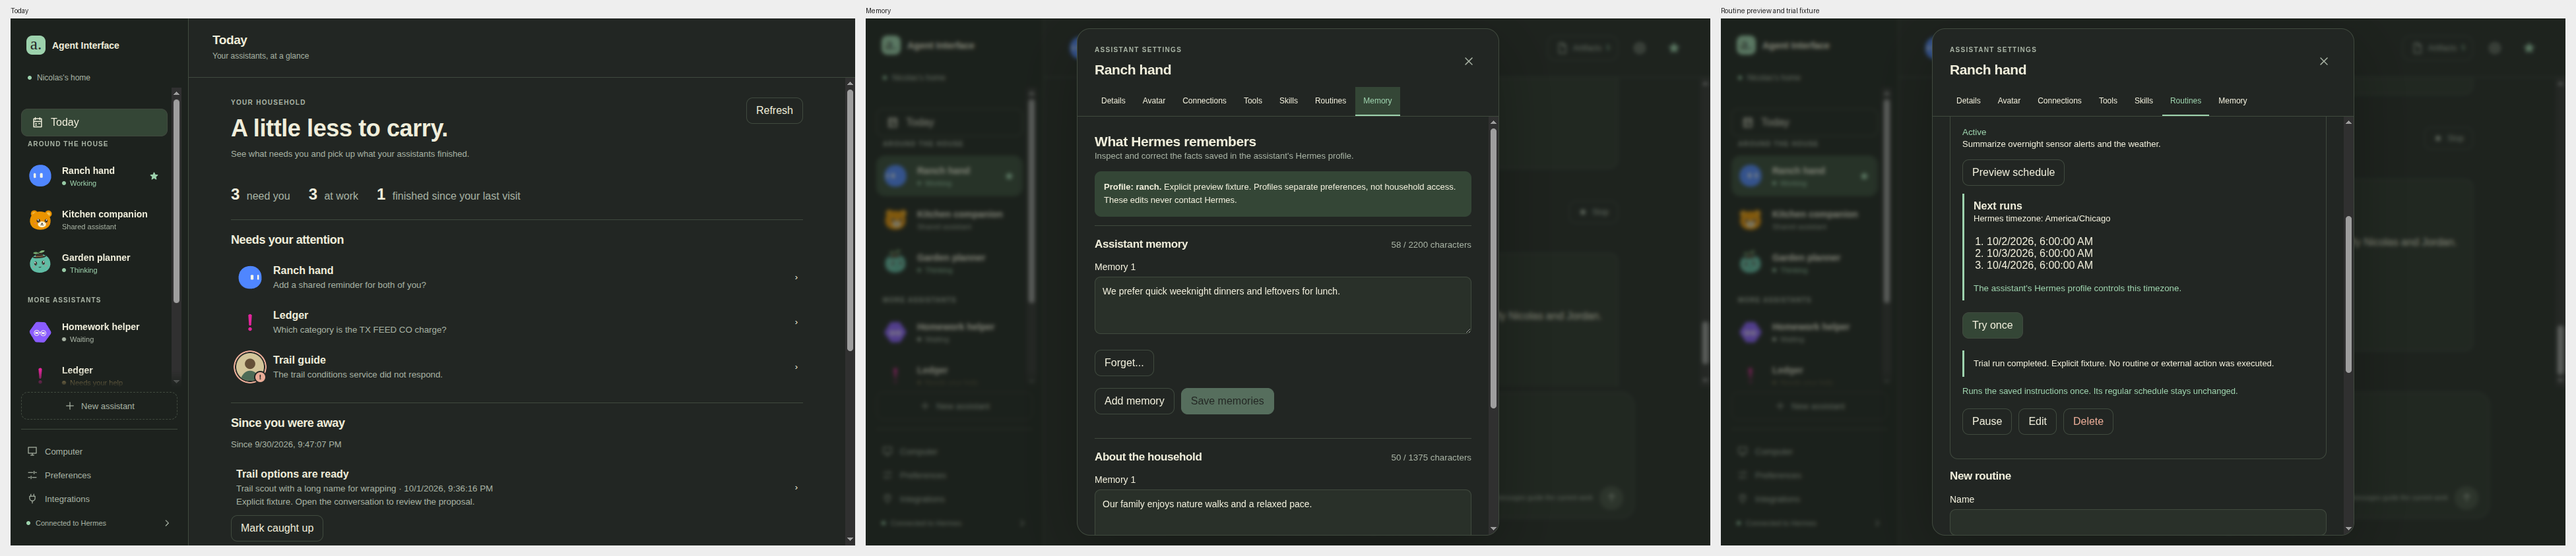
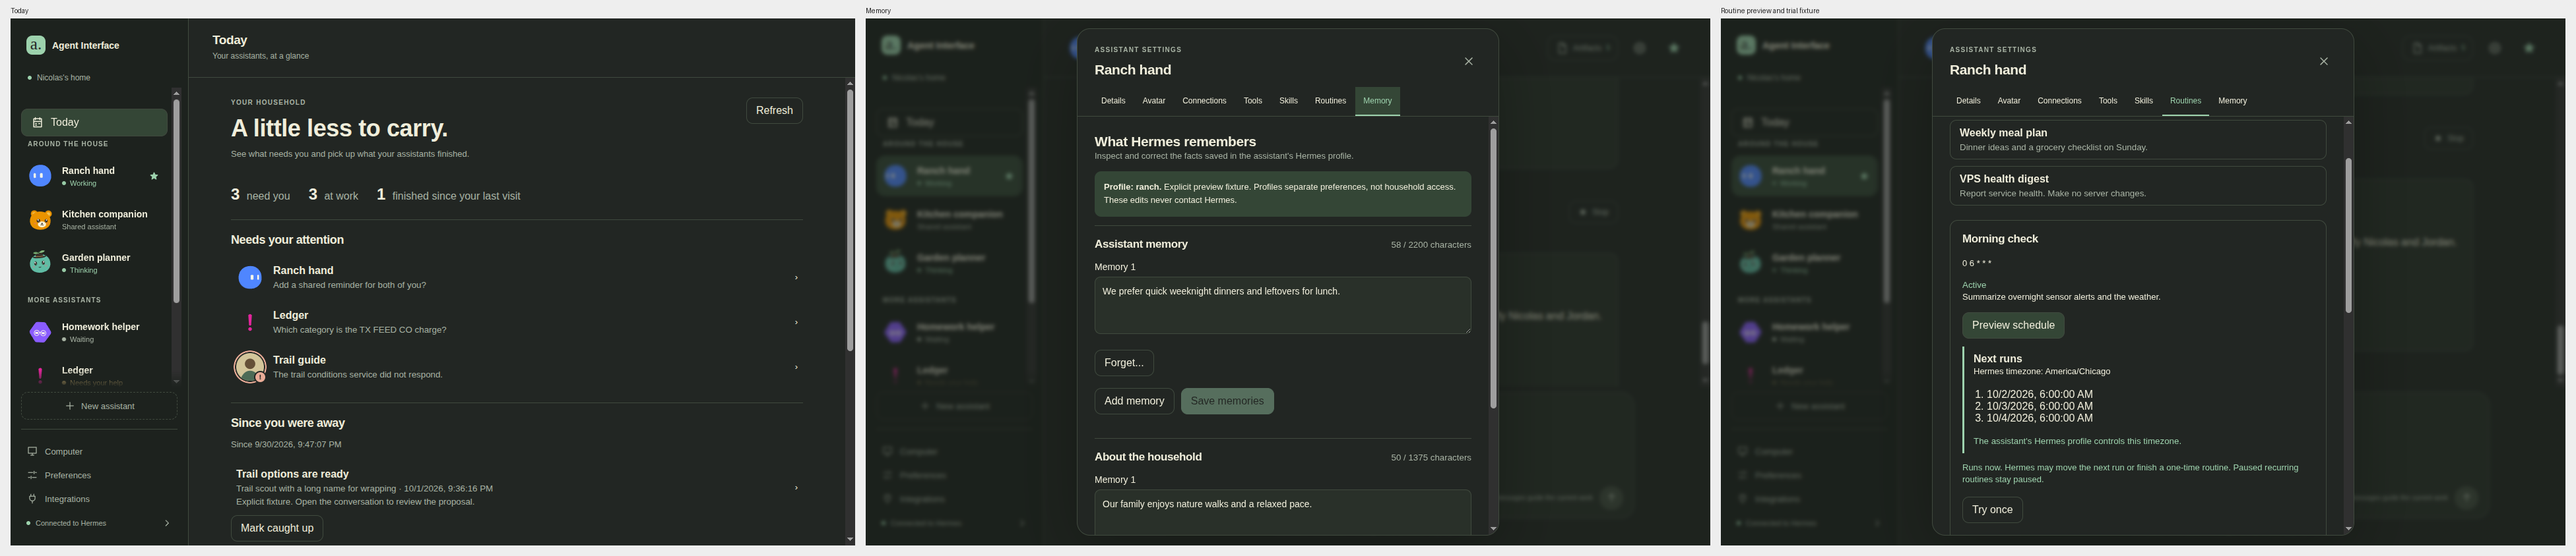
Fix paused routine qualification and clarify manual-run behavior

diff --git a/src/components/RoutineEnhancements.tsx b/src/components/RoutineEnhancements.tsx
@@ -68,6 +68,7 @@ export function RoutineEnhancements({ routine, userId, disabled }: { routine: Ro
     finally { setBusy(false); }
   }
   return <div className="routine-enhancements"><RoutineSchedulePreview botId={routine.botId} schedule={routine.schedule} />
+    <small className="muted">Runs now. Hermes may move the next run or finish a one-time routine. Paused recurring routines stay paused.</small>
     <div className="actions">{canStart ? <button type="button" disabled={busy || disabled} onClick={() => void start()}>{busy ? "Starting..." : "Try once"}</button>
       : <button type="button" disabled={busy || disabled} onClick={() => void check(requestId)}>{busy ? "Checking..." : "Check run status"}</button>}
       {missing && <button type="button" disabled={busy || disabled} onClick={() => void start(requestId)}>Retry the same request</button>}</div>
@@ -76,6 +77,5 @@ export function RoutineEnhancements({ routine, userId, disabled }: { routine: Ro
       : receipt.status === "failed" ? "Trial run failed."
       : "The run's outcome is unknown. Review its result before starting another."}{receipt.message && ` ${receipt.message}`}</p>}
     {error && <p className="form-error" role="alert">{error}</p>}
-    <small className="muted">Runs the saved instructions once. Its regular schedule stays unchanged.</small>
   </div>;
 }

diff --git a/ios/AgentInterface/ExperienceViews.swift b/ios/AgentInterface/ExperienceViews.swift
@@ -209,6 +209,7 @@ struct RoutinePreviewControls: View {
     if !routine.id.isEmpty {
       Section("Try once") {
         Text("Runs this saved routine immediately with its saved instructions and recipients. It can use the assistant's enabled tools.").font(.footnote).foregroundStyle(.secondary)
+        Text("Hermes may move the next run or finish a one-time routine. Paused recurring routines stay paused.").font(.footnote).foregroundStyle(.secondary)
         if let receipt {
           Text(receipt.message ?? "Run status: \(receipt.status)")
           if ["accepted", "uncertain"].contains(receipt.status) {

diff --git a/scripts/spike/experience_probe.py b/scripts/spike/experience_probe.py
@@ -71,7 +71,7 @@ async def main():
         assert epochs == sorted(set(epochs)) and epochs[0] > time.time(), preview
         assert call("preview", schedule="nope")[0] == 400
         checks["native_timezone_schedule_preview"] = True
-        result = await c.call("cron.manage", profile="spike", action="add", name="[bot:spike] Experience trial proof", prompt="PROBE_SLOW Public synthetic routine result", schedule="1h", deliver="bot-chat:spike", continuity=True)
+        result = await c.call("cron.manage", profile="spike", action="add", name="[bot:spike] Experience trial proof", prompt="PROBE_SLOW Public synthetic routine result", schedule="0 7 * * *", deliver="bot-chat:spike", continuity=True)
         job = result.get("job") or result
         job_id = job.get("job_id") or job.get("id")
         if not job_id:
@@ -92,8 +92,13 @@ async def main():
                 break
             await asyncio.sleep(.25)
         assert receipt["status"] == "completed", receipt
-        jobs = (await c.call("cron.manage", profile="spike", action="list"))["jobs"]
-        job = next(row for row in jobs if (row.get("id") or row.get("job_id")) == job_id)
+        # Official RPC listings hide disabled jobs unless explicitly requested.
+        # A paused trial must stay hidden there while remaining in the full list.
+        active_jobs = (await c.call("cron.manage", profile="spike", action="list"))["jobs"]
+        assert not any((row.get("id") or row.get("job_id")) == job_id for row in active_jobs), "Trial silently enabled a paused routine"
+        jobs = (await c.call("cron.manage", profile="spike", action="list", include_disabled=True))["jobs"]
+        job = next((row for row in jobs if (row.get("id") or row.get("job_id")) == job_id), None)
+        assert job is not None, "Paused recurring routine disappeared from the native full listing"
         assert job.get("enabled") is False or job.get("state") == "paused", job
         request = urllib.request.Request(os.environ["HERMES_SPIKE_URL"] + "/api/agent-interface/service/cron/jobs?profile=spike", headers={"Authorization": "Bearer " + os.environ["HERMES_SPIKE_TOKEN"]})
         with urllib.request.urlopen(request, timeout=10) as response:
@@ -101,8 +106,6 @@ async def main():
         before_completed = native_job["last_run_at"]
         assert call("run", **run)[1]["status"] == "completed"
         await asyncio.sleep(.3)
-        jobs = (await c.call("cron.manage", profile="spike", action="list"))["jobs"]
-        job = next(row for row in jobs if (row.get("id") or row.get("job_id")) == job_id)
         with urllib.request.urlopen(request, timeout=10) as response:
             native_job = next(row for row in json.load(response) if (row.get("id") or row.get("job_id")) == job_id)
         assert native_job["last_run_at"] == before_completed, "Same trial ID reran the native job"

diff --git a/docs/ValidationLedger.md b/docs/ValidationLedger.md
@@ -1042,6 +1042,40 @@ canonical run attribution supplies late completion artifacts. Calendar Close
 remains readable at phone width. New native qualification and subsequent
 production activation receipts will be recorded after merge.
 
+The first full staged qualification stopped in the experience probe after the
+existing lifecycle and routine probes completed. The native RPC routine listing
+defaults to active jobs; the probe incorrectly expected its paused trial in that
+listing. A marked-home reproduction confirmed the exact lookup failure. The
+follow-up requests disabled jobs explicitly and asserts the default listing still
+omits the paused job. No native execution or product scheduler change was needed,
+and no qualification receipt was issued for the failed run. Production retained
+the previous release throughout this investigation.
+
+The source check also clarified native manual-trigger behavior. Hermes applies
+its normal schedule and repeat rules, which can move an interval's next run or
+finish a one-time routine. Web and native copy now explain that behavior before
+the action; paused recurring routines remain paused. This replaces the initial
+blanket promise that the regular schedule would stay unchanged.
+
+The follow-up adds a reviewed host acceptance tool for repeated speech checks.
+It uses a short-lived allowed-member session, reads Today/native memory/schedule
+previews, transcribes synthetic speech through the deployed app, and compares
+canonical history before and after. It refuses maintenance, keeps credentials
+and household content out of its output, and removes its session before issuing
+a receipt. It does not edit memories, acknowledge a real person's Today page,
+send chat messages or execute a production routine.
+
+Follow-up frozen source, 375 files:
+`sha256:245149decb5c02827c3f8ad011a0e72dd2d5b80307fd46360c8f2ee4dfa03748`.
+The corrected real native experience probe completed in the marked disposable
+environment. The eight focused web experience checks and rebuilt web
+`fb52f56f6b997241` completed. The native copy-only follow-up compiled on the phone
+simulator, at input digest
+`sha256:809b8cfc3cb394cfa10aff09eb01106259e83810ee2f3e26212423f9abd00309`.
+Existing product checks remain applicable to their unchanged logic. The new
+acceptance helper passed its syntax check and independent review at SHA256
[1 lines of base64/hex data omitted]
+
 Physical-phone microphone capture/audibility, native calendar Save, and signed
 iOS distribution remain separate acceptance work. Existing image, push and live
 external integration gaps remain tracked in issue #1. Server speech success does

diff --git a/.agents/tools/README.md b/.agents/tools/README.md
@@ -2,6 +2,7 @@
 
 - `python3 .agents/tools/setup-shared-computer.py` stages private desktop/browser and terminal settings on the Hermes Linux service account without restarting live services; `--start` enables the shared computer after guarded release activation.
 - `node --env-file=PRIVATE_APP_ENV --import tsx .agents/tools/accept-shared-computer.mjs PRIVATE_RECEIPT_PATH` checks authenticated native RFB, takeover/handback and a real terminal reconnect/end through the deployed app on its Linux host; refuses to touch an existing member shell and removes its temporary app session.
+- `node --env-file=PRIVATE_APP_ENV --import tsx .agents/tools/accept-household-experience.mjs PRIVATE_RECEIPT_PATH` runs with the deployed release as its working directory to check authenticated Today, native profile memory, schedule previews and synthetic speech through loopback services; refuses maintenance, verifies conversations stay unchanged, and removes its temporary app session. The helper may be uploaded outside the release and invoked by absolute path.
 
 - `python3 .agents/tools/source-state.py` prints the source fingerprint used by the validation ledger, excluding the ledger itself and ignored build/runtime files; optional path-prefix arguments restrict the fingerprint to a component.
 - `python3 .agents/tools/review-collage.py output.png 'Label=screenshot.png' ...` combines screenshots at a common height with labels and preserved aspect ratios; requires Pillow.

diff --git a/docs/HouseholdExperience.md b/docs/HouseholdExperience.md
@@ -84,8 +84,9 @@ profile timezone and its next three runs, or the one scheduled run for a one-sho
 Presets use connected sources and do not authorize purchases or server changes.
 
 Try once executes the saved instructions through Hermes's native scheduler. It
-preserves the regular schedule and records a durable request ID before native
-admission. Rechecking or retrying that same ID cannot create another trial. The
+records a durable request ID before native admission. Hermes applies its normal
+schedule and repeat rules: the next run can move and a one-time routine can finish.
+Paused recurring routines remain paused. Rechecking or retrying that same ID cannot create another trial. The
 receipt follows the native execution ledger, including detached native workers.
 An uncertain outcome requires review. The app does not silently start another
 run, and it blocks routine edits while a trial's outcome remains unconfirmed.
